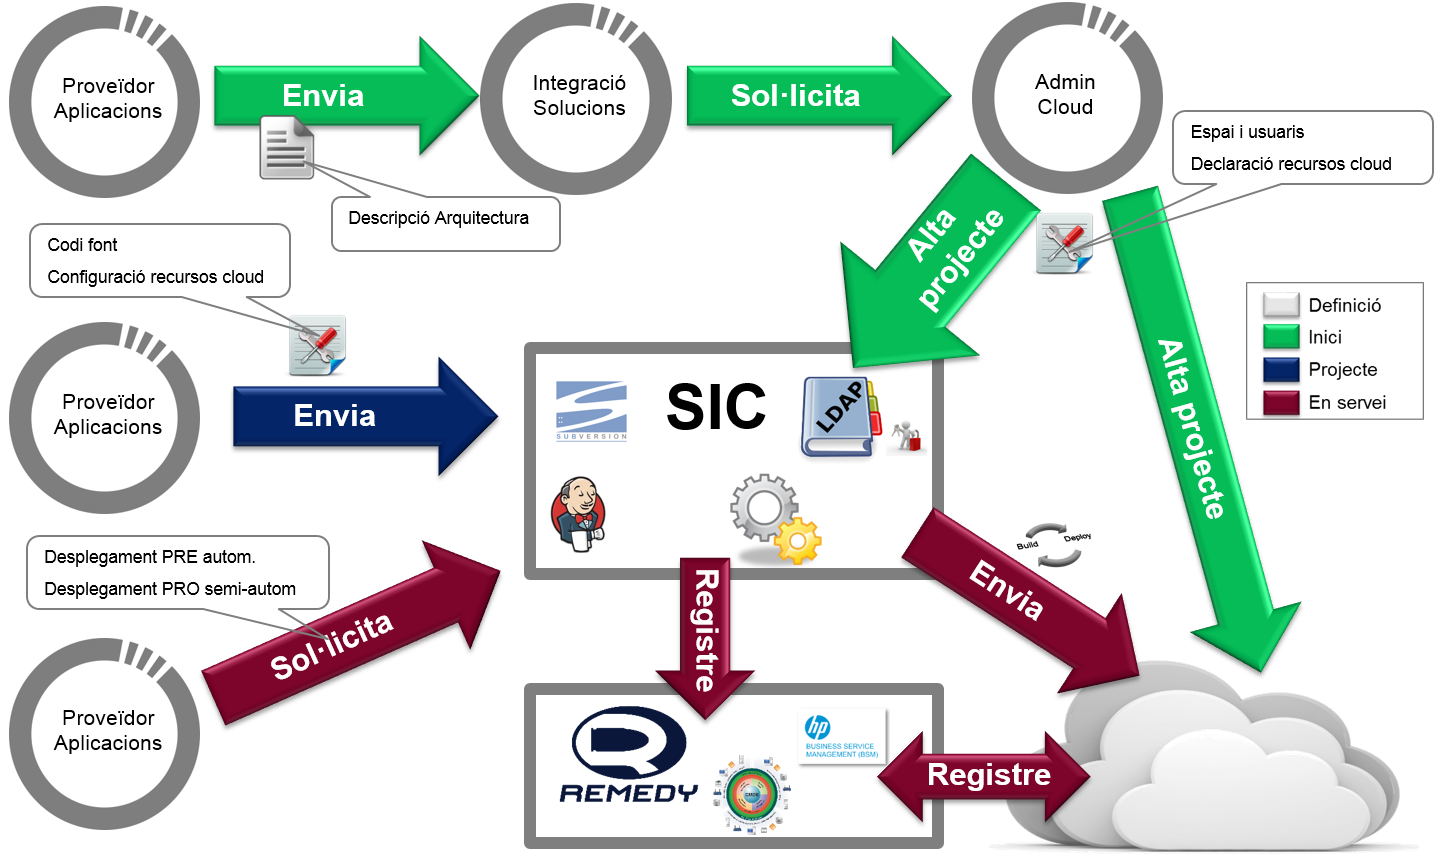
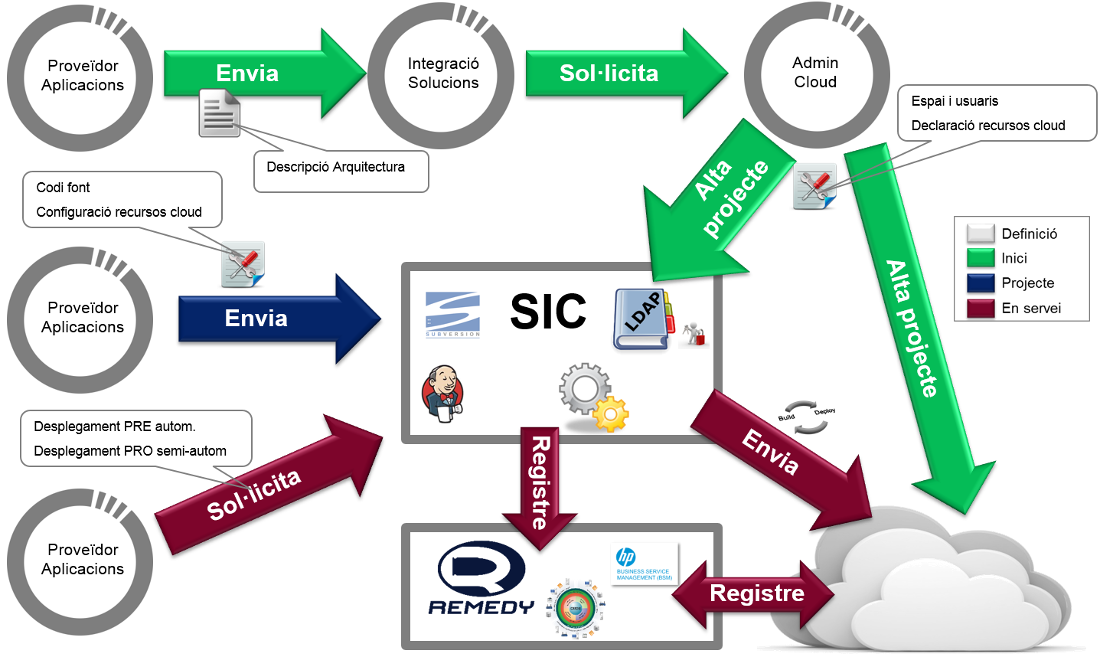
new version

diff --git a/cloud/lifecycle/index.html b/cloud/lifecycle/index.html
@@ -303,17 +303,17 @@
 
 						<p><em><span style='color:red;'>DRAFT</span></em></p>
 
-<p>Gràcies a l&rsquo;ús del Container Cloud el cicle de vida de les aplicacions pot automatitzar-se de forma fàcil. És aquí on el SIC (Servei d&rsquo;Integració Continua) té un paper esencial ja que és l&rsquo;encarregat de proporcionar els processos per assolir aquesta automatització.</p>
+<p>Gràcies a l&rsquo;ús del Container Cloud el cicle de vida de les aplicacions pot automatitzar-se de forma fàcil. És aquí on el SIC (Servei d&rsquo;Integració Continua) té un paper esencial, ja que és l&rsquo;encarregat de proporcionar els processos per assolir aquesta automatització.</p>
 
-<p>Expliquem, des d&rsquo;un inici, quines són les passes que segueix una aplicació fins arribar a executar-se en el Container Cloud:</p>
+<p>Expliquem, des d&rsquo;un inici, quines són les passes que segueix una aplicació fins a arribar a executar-se en el Container Cloud:</p>
 
 <p><strong>Definició d&rsquo;Arquitectura</strong></p>
 
-<p>És en aquesta fase on el proveïdor d&rsquo;aplicacions, conjuntament amb Integració de Solucions, analitzaran si l&rsquo;aplicació és susceptible d&rsquo;anar al Container Cloud. Amb el suport de l&rsquo;equip d&rsquo;Administració Cloud i Arquitectura CTTI es pendrà una decisió i es determinarà quin és el cloud destí més apropiat.</p>
+<p>És en aquesta fase on el proveïdor d&rsquo;aplicacions, conjuntament amb Integració de Solucions, analitzaran si l&rsquo;aplicació és susceptible d&rsquo;anar al Container Cloud. Amb el suport de l&rsquo;equip d&rsquo;Administració Cloud i Arquitectura CTTI es prendrà una decisió i es determinarà quin és el cloud destí més apropiat.</p>
 
 <p><strong>Alta projecte</strong></p>
 
-<p>En aquesta fase s&rsquo;aprovisionaran els recursos necessaris en el cloud destí i en el SIC per al desplegament de l&rsquo;aplicació, així com els usuaris d&rsquo;accés per els proveïdors d&rsquo;aplicacions per la monitorització de l&rsquo;aplicació (logs, consum recursos, &hellip;) i el seu desplegament.</p>
+<p>En aquesta fase s&rsquo;aprovisionaran els recursos necessaris en el cloud destí i en el SIC per al desplegament de l&rsquo;aplicació, així com els usuaris d&rsquo;accés pels proveïdors d&rsquo;aplicacions per la monitorització de l&rsquo;aplicació (logs, consum recursos, &hellip;) i el seu desplegament.</p>
 
 <p><strong>Construcció i desplegament</strong></p>
 
@@ -334,6 +334,8 @@
 <p>Pel que fa als entorns, per defecte existiran un de PROductiu, i un altre de PREproductiu. Aquest últim amb caràcter temporal. Els contenidors d&rsquo;aquest &ldquo;espai/entorn&rdquo; temporal s&rsquo;eliminaran després de cert temps d&rsquo;inactivitat o després d&rsquo;un temps d&rsquo;expiració.</p>
 
 <p>Per els desplegaments a l&rsquo;entorn de PROducció s&rsquo;aplicarà l&rsquo;estratègia de <a href="http://martinfowler.com/bliki/BlueGreenDeployment.html">blue-green deployment</a>. Els contenidors &ldquo;antics&rdquo; s&rsquo;eliminaran.</p>
+
+<p>A continuació mostrem un diagrama on s&rsquo;il·lustra el flux i els diferents equips que intervenen en el cicle de vida d&rsquo;una aplicació al Container Cloud:</p>
 
 <p><img src="/related/cloud/lifecycle.png" alt="Cicle de Vida Container Cloud" /></p>
 

diff --git a/cercador/index.html b/cercador/index.html
@@ -246,7 +246,7 @@
 
 <script type="text/html" id="hit-template">
     <div class="destacat_text list-group-item">
-        <h2><a href="{{url}}">{{title}}</a></h2>
+        <h2><a href="{{path}}">{{title}}</a></h2>
         <p>
             {{description}}
         </p>
